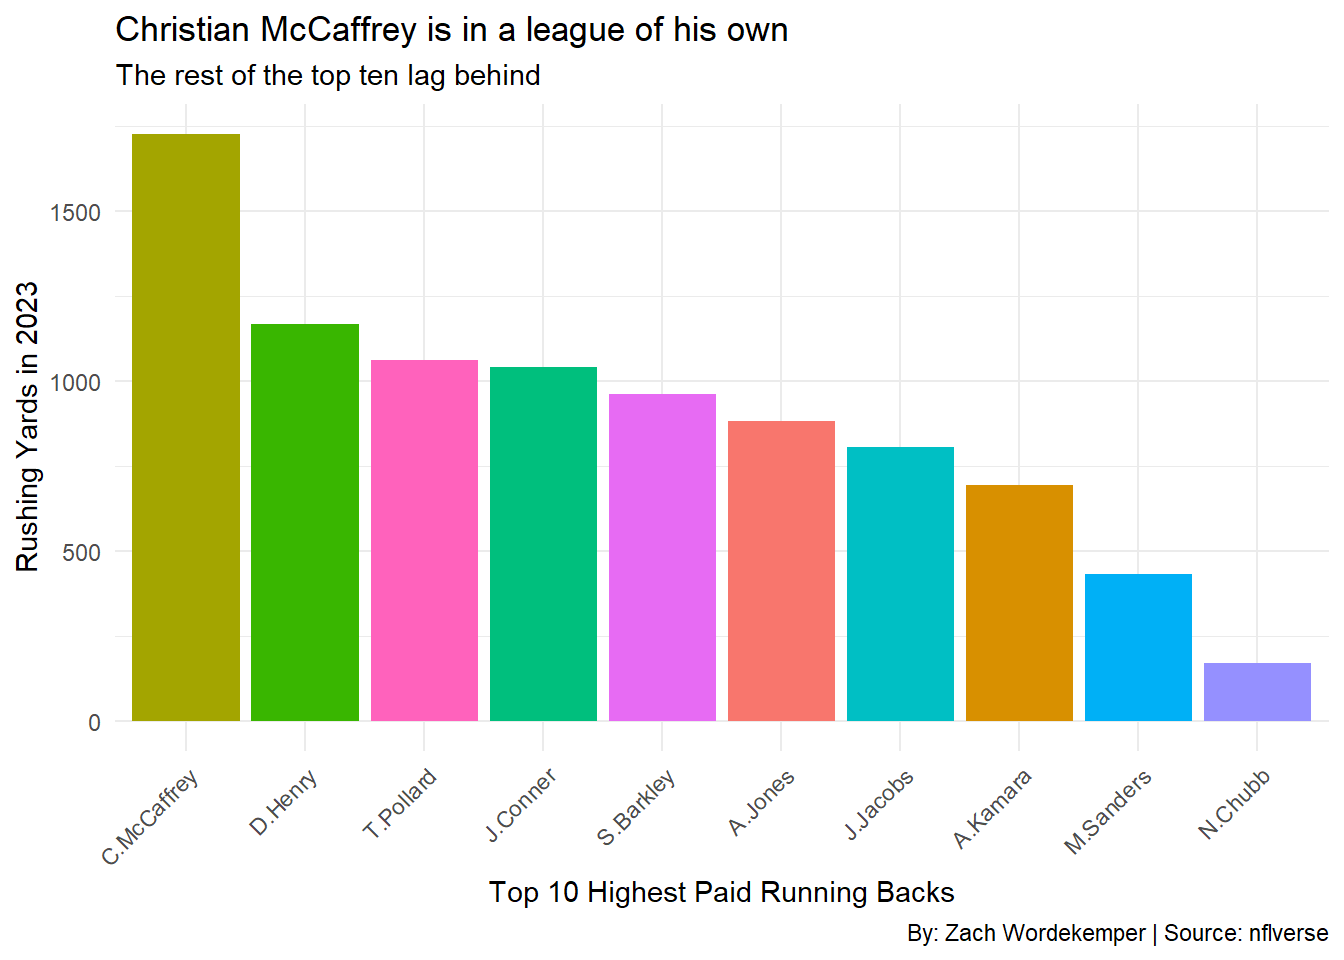
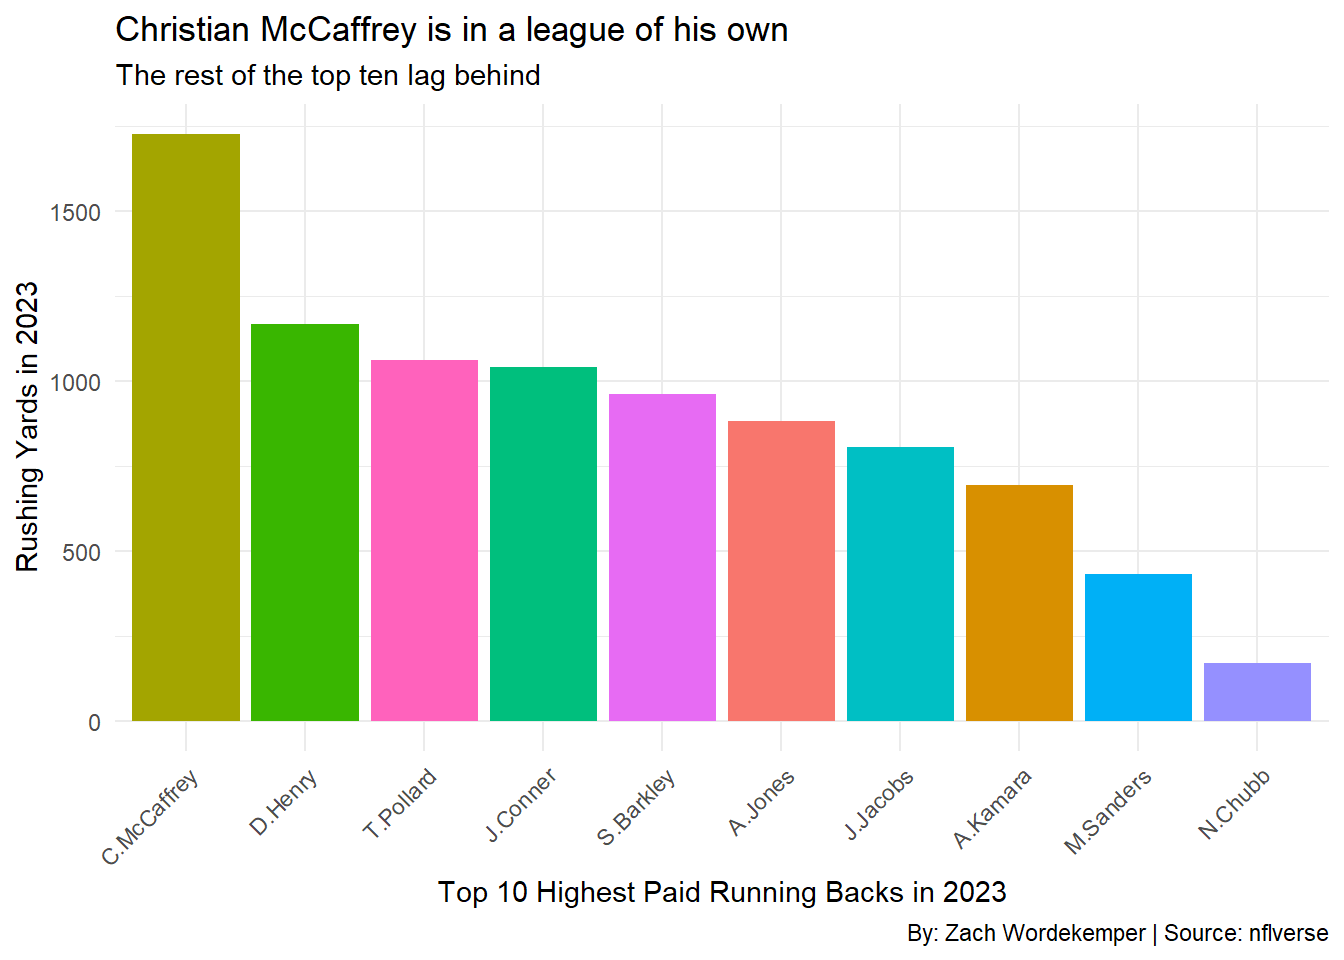
newest update

Changed region(s): [[0.3125, 0.9062, 0.75, 0.9375]]

diff --git a/posts/highest-paid-runningbacks/index.html b/posts/highest-paid-runningbacks/index.html
@@ -302,7 +302,7 @@ pre > code.sourceCode > span > a:first-child::before { text-decoration: underlin
 <span id="cb11-3"><a href="#cb11-3" aria-hidden="true" tabindex="-1"></a>  <span class="fu">labs</span>(</span>
 <span id="cb11-4"><a href="#cb11-4" aria-hidden="true" tabindex="-1"></a>    <span class="at">title =</span> <span class="st">"Christian McCaffrey is in a league of his own"</span>,</span>
 <span id="cb11-5"><a href="#cb11-5" aria-hidden="true" tabindex="-1"></a>    <span class="at">subtitle =</span> <span class="st">"The rest of the top ten lag behind"</span>,</span>
-<span id="cb11-6"><a href="#cb11-6" aria-hidden="true" tabindex="-1"></a>    <span class="at">x =</span> <span class="st">"Top 10 Highest Paid Running Backs"</span>,</span>
+<span id="cb11-6"><a href="#cb11-6" aria-hidden="true" tabindex="-1"></a>    <span class="at">x =</span> <span class="st">"Top 10 Highest Paid Running Backs in 2023"</span>,</span>
 <span id="cb11-7"><a href="#cb11-7" aria-hidden="true" tabindex="-1"></a>    <span class="at">y =</span> <span class="st">"Rushing Yards in 2023"</span>,</span>
 <span id="cb11-8"><a href="#cb11-8" aria-hidden="true" tabindex="-1"></a>    <span class="at">caption =</span> <span class="st">"By: Zach Wordekemper | Source: nflverse"</span>,</span>
 <span id="cb11-9"><a href="#cb11-9" aria-hidden="true" tabindex="-1"></a>    <span class="at">fill =</span> <span class="st">"Player"</span></span>
@@ -401,23 +401,23 @@ pre > code.sourceCode > span > a:first-child::before { text-decoration: underlin
 <span id="cb16-30"><a href="#cb16-30" aria-hidden="true" tabindex="-1"></a>  )</span></code><button title="Copy to Clipboard" class="code-copy-button"><i class="bi"></i></button></pre></div>
 </details>
 <div class="cell-output-display">
-<div id="tliizolcve" style="padding-left:0px;padding-right:0px;padding-top:10px;padding-bottom:10px;overflow-x:auto;overflow-y:auto;width:auto;height:auto;">
-<style>#tliizolcve table {
+<div id="jwksxnzpun" style="padding-left:0px;padding-right:0px;padding-top:10px;padding-bottom:10px;overflow-x:auto;overflow-y:auto;width:auto;height:auto;">
+<style>#jwksxnzpun table {
   font-family: system-ui, 'Segoe UI', Roboto, Helvetica, Arial, sans-serif, 'Apple Color Emoji', 'Segoe UI Emoji', 'Segoe UI Symbol', 'Noto Color Emoji';
   -webkit-font-smoothing: antialiased;
   -moz-osx-font-smoothing: grayscale;
 }
 
-#tliizolcve thead, #tliizolcve tbody, #tliizolcve tfoot, #tliizolcve tr, #tliizolcve td, #tliizolcve th {
+#jwksxnzpun thead, #jwksxnzpun tbody, #jwksxnzpun tfoot, #jwksxnzpun tr, #jwksxnzpun td, #jwksxnzpun th {
   border-style: none;
 }
 
-#tliizolcve p {
+#jwksxnzpun p {
   margin: 0;
   padding: 0;
 }
 
-#tliizolcve .gt_table {
+#jwksxnzpun .gt_table {
   display: table;
   border-collapse: collapse;
   line-height: normal;
@@ -443,12 +443,12 @@ pre > code.sourceCode > span > a:first-child::before { text-decoration: underlin
   border-left-color: #D3D3D3;
 }
 
-#tliizolcve .gt_caption {
+#jwksxnzpun .gt_caption {
   padding-top: 4px;
   padding-bottom: 4px;
 }
 
-#tliizolcve .gt_title {
+#jwksxnzpun .gt_title {
   color: #333333;
   font-size: 125%;
   font-weight: initial;
@@ -460,7 +460,7 @@ pre > code.sourceCode > span > a:first-child::before { text-decoration: underlin
   border-bottom-width: 0;
 }
 
-#tliizolcve .gt_subtitle {
+#jwksxnzpun .gt_subtitle {
   color: #333333;
   font-size: 85%;
   font-weight: initial;
@@ -472,7 +472,7 @@ pre > code.sourceCode > span > a:first-child::before { text-decoration: underlin
   border-top-width: 0;
 }
 
-#tliizolcve .gt_heading {
+#jwksxnzpun .gt_heading {
   background-color: #FFFFFF;
   text-align: center;
   border-bottom-color: #FFFFFF;
@@ -484,13 +484,13 @@ pre > code.sourceCode > span > a:first-child::before { text-decoration: underlin
   border-right-color: #D3D3D3;
 }
 
-#tliizolcve .gt_bottom_border {
+#jwksxnzpun .gt_bottom_border {
   border-bottom-style: solid;
   border-bottom-width: 2px;
   border-bottom-color: #D3D3D3;
 }
 
-#tliizolcve .gt_col_headings {
+#jwksxnzpun .gt_col_headings {
   border-top-style: solid;
   border-top-width: 2px;
   border-top-color: #D3D3D3;
@@ -505,7 +505,7 @@ pre > code.sourceCode > span > a:first-child::before { text-decoration: underlin
   border-right-color: #D3D3D3;
 }
 
-#tliizolcve .gt_col_heading {
+#jwksxnzpun .gt_col_heading {
   color: #333333;
   background-color: #FFFFFF;
   font-size: 100%;
@@ -525,7 +525,7 @@ pre > code.sourceCode > span > a:first-child::before { text-decoration: underlin
   overflow-x: hidden;
 }
 
-#tliizolcve .gt_column_spanner_outer {
+#jwksxnzpun .gt_column_spanner_outer {
   color: #333333;
   background-color: #FFFFFF;
   font-size: 100%;
@@ -537,15 +537,15 @@ pre > code.sourceCode > span > a:first-child::before { text-decoration: underlin
   padding-right: 4px;
 }
 
-#tliizolcve .gt_column_spanner_outer:first-child {
+#jwksxnzpun .gt_column_spanner_outer:first-child {
   padding-left: 0;
 }
 
-#tliizolcve .gt_column_spanner_outer:last-child {
+#jwksxnzpun .gt_column_spanner_outer:last-child {
   padding-right: 0;
 }
 
-#tliizolcve .gt_column_spanner {
+#jwksxnzpun .gt_column_spanner {
   border-bottom-style: solid;
   border-bottom-width: 2px;
   border-bottom-color: #D3D3D3;
@@ -557,11 +557,11 @@ pre > code.sourceCode > span > a:first-child::before { text-decoration: underlin
   width: 100%;
 }
 
-#tliizolcve .gt_spanner_row {
+#jwksxnzpun .gt_spanner_row {
   border-bottom-style: hidden;
 }
 
-#tliizolcve .gt_group_heading {
+#jwksxnzpun .gt_group_heading {
   padding-top: 8px;
   padding-bottom: 8px;
   padding-left: 5px;
@@ -587,7 +587,7 @@ pre > code.sourceCode > span > a:first-child::before { text-decoration: underlin
   text-align: left;
 }
 
-#tliizolcve .gt_empty_group_heading {
+#jwksxnzpun .gt_empty_group_heading {
   padding: 0.5px;
   color: #333333;
   background-color: #FFFFFF;
@@ -602,15 +602,15 @@ pre > code.sourceCode > span > a:first-child::before { text-decoration: underlin
   vertical-align: middle;
 }
 
-#tliizolcve .gt_from_md > :first-child {
+#jwksxnzpun .gt_from_md > :first-child {
   margin-top: 0;
 }
 
-#tliizolcve .gt_from_md > :last-child {
+#jwksxnzpun .gt_from_md > :last-child {
   margin-bottom: 0;
 }
 
-#tliizolcve .gt_row {
+#jwksxnzpun .gt_row {
   padding-top: 8px;
   padding-bottom: 8px;
   padding-left: 5px;
@@ -629,7 +629,7 @@ pre > code.sourceCode > span > a:first-child::before { text-decoration: underlin
   overflow-x: hidden;
 }
 
-#tliizolcve .gt_stub {
+#jwksxnzpun .gt_stub {
   color: #333333;
   background-color: #FFFFFF;
   font-size: 100%;
@@ -642,7 +642,7 @@ pre > code.sourceCode > span > a:first-child::before { text-decoration: underlin
   padding-right: 5px;
 }
 
-#tliizolcve .gt_stub_row_group {
+#jwksxnzpun .gt_stub_row_group {
   color: #333333;
   background-color: #FFFFFF;
   font-size: 100%;
@@ -656,15 +656,15 @@ pre > code.sourceCode > span > a:first-child::before { text-decoration: underlin
   vertical-align: top;
 }
 
-#tliizolcve .gt_row_group_first td {
+#jwksxnzpun .gt_row_group_first td {
   border-top-width: 2px;
 }
 
-#tliizolcve .gt_row_group_first th {
+#jwksxnzpun .gt_row_group_first th {
   border-top-width: 2px;
 }
 
-#tliizolcve .gt_summary_row {
+#jwksxnzpun .gt_summary_row {
   color: #333333;
   background-color: #FFFFFF;
   text-transform: inherit;
@@ -674,16 +674,16 @@ pre > code.sourceCode > span > a:first-child::before { text-decoration: underlin
   padding-right: 5px;
 }
 
-#tliizolcve .gt_first_summary_row {
+#jwksxnzpun .gt_first_summary_row {
   border-top-style: solid;
   border-top-color: #D3D3D3;
 }
 
-#tliizolcve .gt_first_summary_row.thick {
+#jwksxnzpun .gt_first_summary_row.thick {
   border-top-width: 2px;
 }
 
-#tliizolcve .gt_last_summary_row {
+#jwksxnzpun .gt_last_summary_row {
   padding-top: 8px;
   padding-bottom: 8px;
   padding-left: 5px;
@@ -693,7 +693,7 @@ pre > code.sourceCode > span > a:first-child::before { text-decoration: underlin
   border-bottom-color: #D3D3D3;
 }
 
-#tliizolcve .gt_grand_summary_row {
+#jwksxnzpun .gt_grand_summary_row {
   color: #333333;
   background-color: #FFFFFF;
   text-transform: inherit;
@@ -703,7 +703,7 @@ pre > code.sourceCode > span > a:first-child::before { text-decoration: underlin
   padding-right: 5px;
 }
 
-#tliizolcve .gt_first_grand_summary_row {
+#jwksxnzpun .gt_first_grand_summary_row {
   padding-top: 8px;
   padding-bottom: 8px;
   padding-left: 5px;
@@ -713,7 +713,7 @@ pre > code.sourceCode > span > a:first-child::before { text-decoration: underlin
   border-top-color: #D3D3D3;
 }
 
-#tliizolcve .gt_last_grand_summary_row_top {
+#jwksxnzpun .gt_last_grand_summary_row_top {
   padding-top: 8px;
   padding-bottom: 8px;
   padding-left: 5px;
@@ -723,11 +723,11 @@ pre > code.sourceCode > span > a:first-child::before { text-decoration: underlin
   border-bottom-color: #D3D3D3;
 }
 
-#tliizolcve .gt_striped {
+#jwksxnzpun .gt_striped {
   background-color: rgba(128, 128, 128, 0.05);
 }
 
-#tliizolcve .gt_table_body {
+#jwksxnzpun .gt_table_body {
   border-top-style: solid;
   border-top-width: 2px;
   border-top-color: #D3D3D3;
@@ -736,7 +736,7 @@ pre > code.sourceCode > span > a:first-child::before { text-decoration: underlin
   border-bottom-color: #D3D3D3;
 }
 
-#tliizolcve .gt_footnotes {
+#jwksxnzpun .gt_footnotes {
   color: #333333;
   background-color: #FFFFFF;
   border-bottom-style: none;
@@ -750,7 +750,7 @@ pre > code.sourceCode > span > a:first-child::before { text-decoration: underlin
   border-right-color: #D3D3D3;
 }
 
-#tliizolcve .gt_footnote {
+#jwksxnzpun .gt_footnote {
   margin: 0px;
   font-size: 90%;
   padding-top: 4px;
@@ -759,7 +759,7 @@ pre > code.sourceCode > span > a:first-child::before { text-decoration: underlin
   padding-right: 5px;
 }
 
-#tliizolcve .gt_sourcenotes {
+#jwksxnzpun .gt_sourcenotes {
   color: #333333;
   background-color: #FFFFFF;
   border-bottom-style: none;
@@ -773,7 +773,7 @@ pre > code.sourceCode > span > a:first-child::before { text-decoration: underlin
   border-right-color: #D3D3D3;
 }
 
-#tliizolcve .gt_sourcenote {
+#jwksxnzpun .gt_sourcenote {
   font-size: 90%;
   padding-top: 4px;
   padding-bottom: 4px;
@@ -781,72 +781,72 @@ pre > code.sourceCode > span > a:first-child::before { text-decoration: underlin
   padding-right: 5px;
 }
 
-#tliizolcve .gt_left {
+#jwksxnzpun .gt_left {
   text-align: left;
 }
 
-#tliizolcve .gt_center {
+#jwksxnzpun .gt_center {
   text-align: center;
 }
 
-#tliizolcve .gt_right {
+#jwksxnzpun .gt_right {
   text-align: right;
   font-variant-numeric: tabular-nums;
 }
 
-#tliizolcve .gt_font_normal {
+#jwksxnzpun .gt_font_normal {
   font-weight: normal;
 }
 
-#tliizolcve .gt_font_bold {
+#jwksxnzpun .gt_font_bold {
   font-weight: bold;
 }
 
-#tliizolcve .gt_font_italic {
+#jwksxnzpun .gt_font_italic {
   font-style: italic;
 }
 
-#tliizolcve .gt_super {
+#jwksxnzpun .gt_super {
   font-size: 65%;
 }
 
-#tliizolcve .gt_footnote_marks {
+#jwksxnzpun .gt_footnote_marks {
   font-size: 75%;
   vertical-align: 0.4em;
   position: initial;
 }
 
-#tliizolcve .gt_asterisk {
+#jwksxnzpun .gt_asterisk {
   font-size: 100%;
   vertical-align: 0;
 }
 
-#tliizolcve .gt_indent_1 {
+#jwksxnzpun .gt_indent_1 {
   text-indent: 5px;
 }
 
-#tliizolcve .gt_indent_2 {
+#jwksxnzpun .gt_indent_2 {
   text-indent: 10px;
 }
 
-#tliizolcve .gt_indent_3 {
+#jwksxnzpun .gt_indent_3 {
   text-indent: 15px;
 }
 
-#tliizolcve .gt_indent_4 {
+#jwksxnzpun .gt_indent_4 {
   text-indent: 20px;
 }
 
-#tliizolcve .gt_indent_5 {
+#jwksxnzpun .gt_indent_5 {
   text-indent: 25px;
 }
 
-#tliizolcve .katex-display {
+#jwksxnzpun .katex-display {
   display: inline-flex !important;
   margin-bottom: 0.75em !important;
 }
 
-#tliizolcve div.Reactable > div.rt-table > div.rt-thead > div.rt-tr.rt-tr-group-header > div.rt-th-group:after {
+#jwksxnzpun div.Reactable > div.rt-table > div.rt-thead > div.rt-tr.rt-tr-group-header > div.rt-th-group:after {
   height: 0px !important;
 }
 </style>

diff --git a/index.html b/index.html
@@ -205,7 +205,7 @@ window.Quarto = {
 
 <div class="quarto-listing quarto-listing-container-default" id="listing-listing">
 <div class="list quarto-listing-default">
-<div class="quarto-post image-right" data-index="0" data-categories="TkZMLGZvb3RiYWxs" data-listing-date-sort="1731826800000" data-listing-file-modified-sort="1732062838628" data-listing-date-modified-sort="NaN" data-listing-reading-time-sort="7" data-listing-word-count-sort="1327">
+<div class="quarto-post image-right" data-index="0" data-categories="TkZMLGZvb3RiYWxs" data-listing-date-sort="1731826800000" data-listing-file-modified-sort="1732063395302" data-listing-date-modified-sort="NaN" data-listing-reading-time-sort="7" data-listing-word-count-sort="1329">
 <div class="thumbnail">
 <p><a href="./posts/highest-paid-runningbacks/index.html" class="no-external"></a></p><a href="./posts/highest-paid-runningbacks/index.html" class="no-external">
 <p class="card-img-top"><img src="posts\highest-paid-runningbacks\index_files\figure-html\unnamed-chunk-7-1.png"  class="thumbnail-image card-img"/></p>
